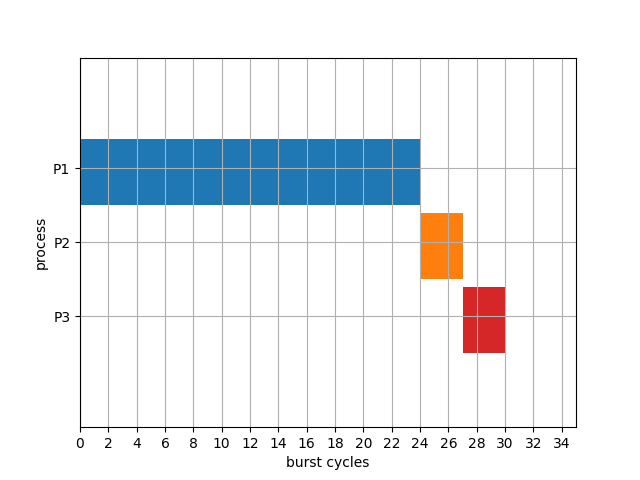
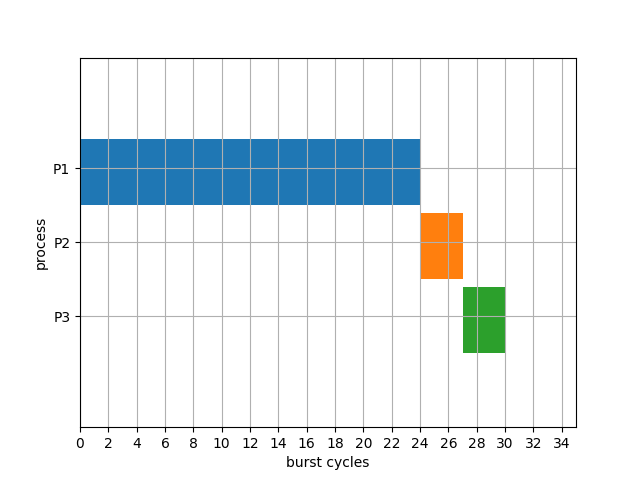
Modifications for CPUScheduling FCFS implementation

Changed region(s): [[0.7188, 0.5938, 0.8125, 0.75]]

diff --git a/cpu_scheduling/visualizations.py b/cpu_scheduling/visualizations.py
@@ -2,6 +2,8 @@ import matplotlib.pyplot as plt
 import matplotlib.ticker as plticker
 import os
 
+FACECOLORS = ['tab:blue', 'tab:orange', 'tab:green', 'tab:red', 'tab:indigo', 'tab:yellow']
+
 current_path_str = os.path.dirname(__file__)
 SAVE_DIR = os.path.dirname(current_path_str)
 RESULTS_DIR = os.path.join(SAVE_DIR, 'outputs/cpu_scheduling/')
@@ -9,22 +11,17 @@ if not os.path.isdir(RESULTS_DIR):
     os.makedirs(RESULTS_DIR)
 
 
-
 def plot_gantt_chart(processes_list, processes_scheduled_list):
-    # Declaring a figure "gnt"
     fig, gnt = plt.subplots()
 
-    # Axis limits
     y_lim = 15 + 10 * len(processes_list)
     gnt.set_ylim(0, y_lim + 5)
     x_lim = sum(list(map(lambda p: p['burst_time'], processes_list)))
     gnt.set_xlim(0, x_lim + 5)
 
-    # Setting labels for x-axis and y-axis
     gnt.set_xlabel('burst cycles')
     gnt.set_ylabel('process')
 
-    # Y-axis ticks and labels
     y_labels = list(map(lambda p: p['name'], processes_scheduled_list))
     y_labels.reverse()
     ytick = 15
@@ -36,24 +33,16 @@ def plot_gantt_chart(processes_list, processes_scheduled_list):
     gnt.set_yticks(y_ticks)
     gnt.set_yticklabels(y_labels)
 
-
     loc = plticker.MultipleLocator(base=2)  # this locator puts ticks at regular intervals
     gnt.xaxis.set_major_locator(loc)
 
-    # Setting graph attribute
-    gnt.grid(True)
+    gnt.grid(True) # Setting graph attribute
 
-    # Declaring a bar in schedule
-    gnt.broken_barh([(0, 24)], (30, 9), facecolors=('tab:blue'))
-
-    # Declaring multiple bars in at same level and same width
-    gnt.broken_barh([(24, 3)], (20, 9),
-                    facecolors='tab:orange')
-
-    gnt.broken_barh([(27, 3)], (10, 9),
-                    facecolors=('tab:red'))
-
-    # plt.savefig("output/cpu_scheduling/fcfs.png")
+    y_pos = 10 * len(processes_list)
+    for index, process_scheduled in enumerate(processes_scheduled_list):
+        print(str(process_scheduled['coordinates']))
+        gnt.broken_barh(process_scheduled['coordinates'], (y_pos, 9), facecolors=FACECOLORS[index])
+        y_pos -= 10
 
     file_name = "fcfs.png"
     plt.savefig(RESULTS_DIR + file_name)

diff --git a/cpu_scheduling/algorithms.py b/cpu_scheduling/algorithms.py
@@ -11,11 +11,14 @@ def fcfs(processes_list):
     list_processes_scheduled = []
 
     sorted_processes_list = sort_processes_list_by_priority(processes_list)
+    x_pos = start_point
+
     for process in sorted_processes_list:
         process_information = {'name': process['name'],
-                               'coordinates': [(start_point, process['burst_time'])]
+                               'coordinates': [(x_pos, process['burst_time'])]
                                }
         list_processes_scheduled.append(process_information)
+        x_pos += process['burst_time']
 
     visualizations.plot_gantt_chart(processes_list, list_processes_scheduled)
 
